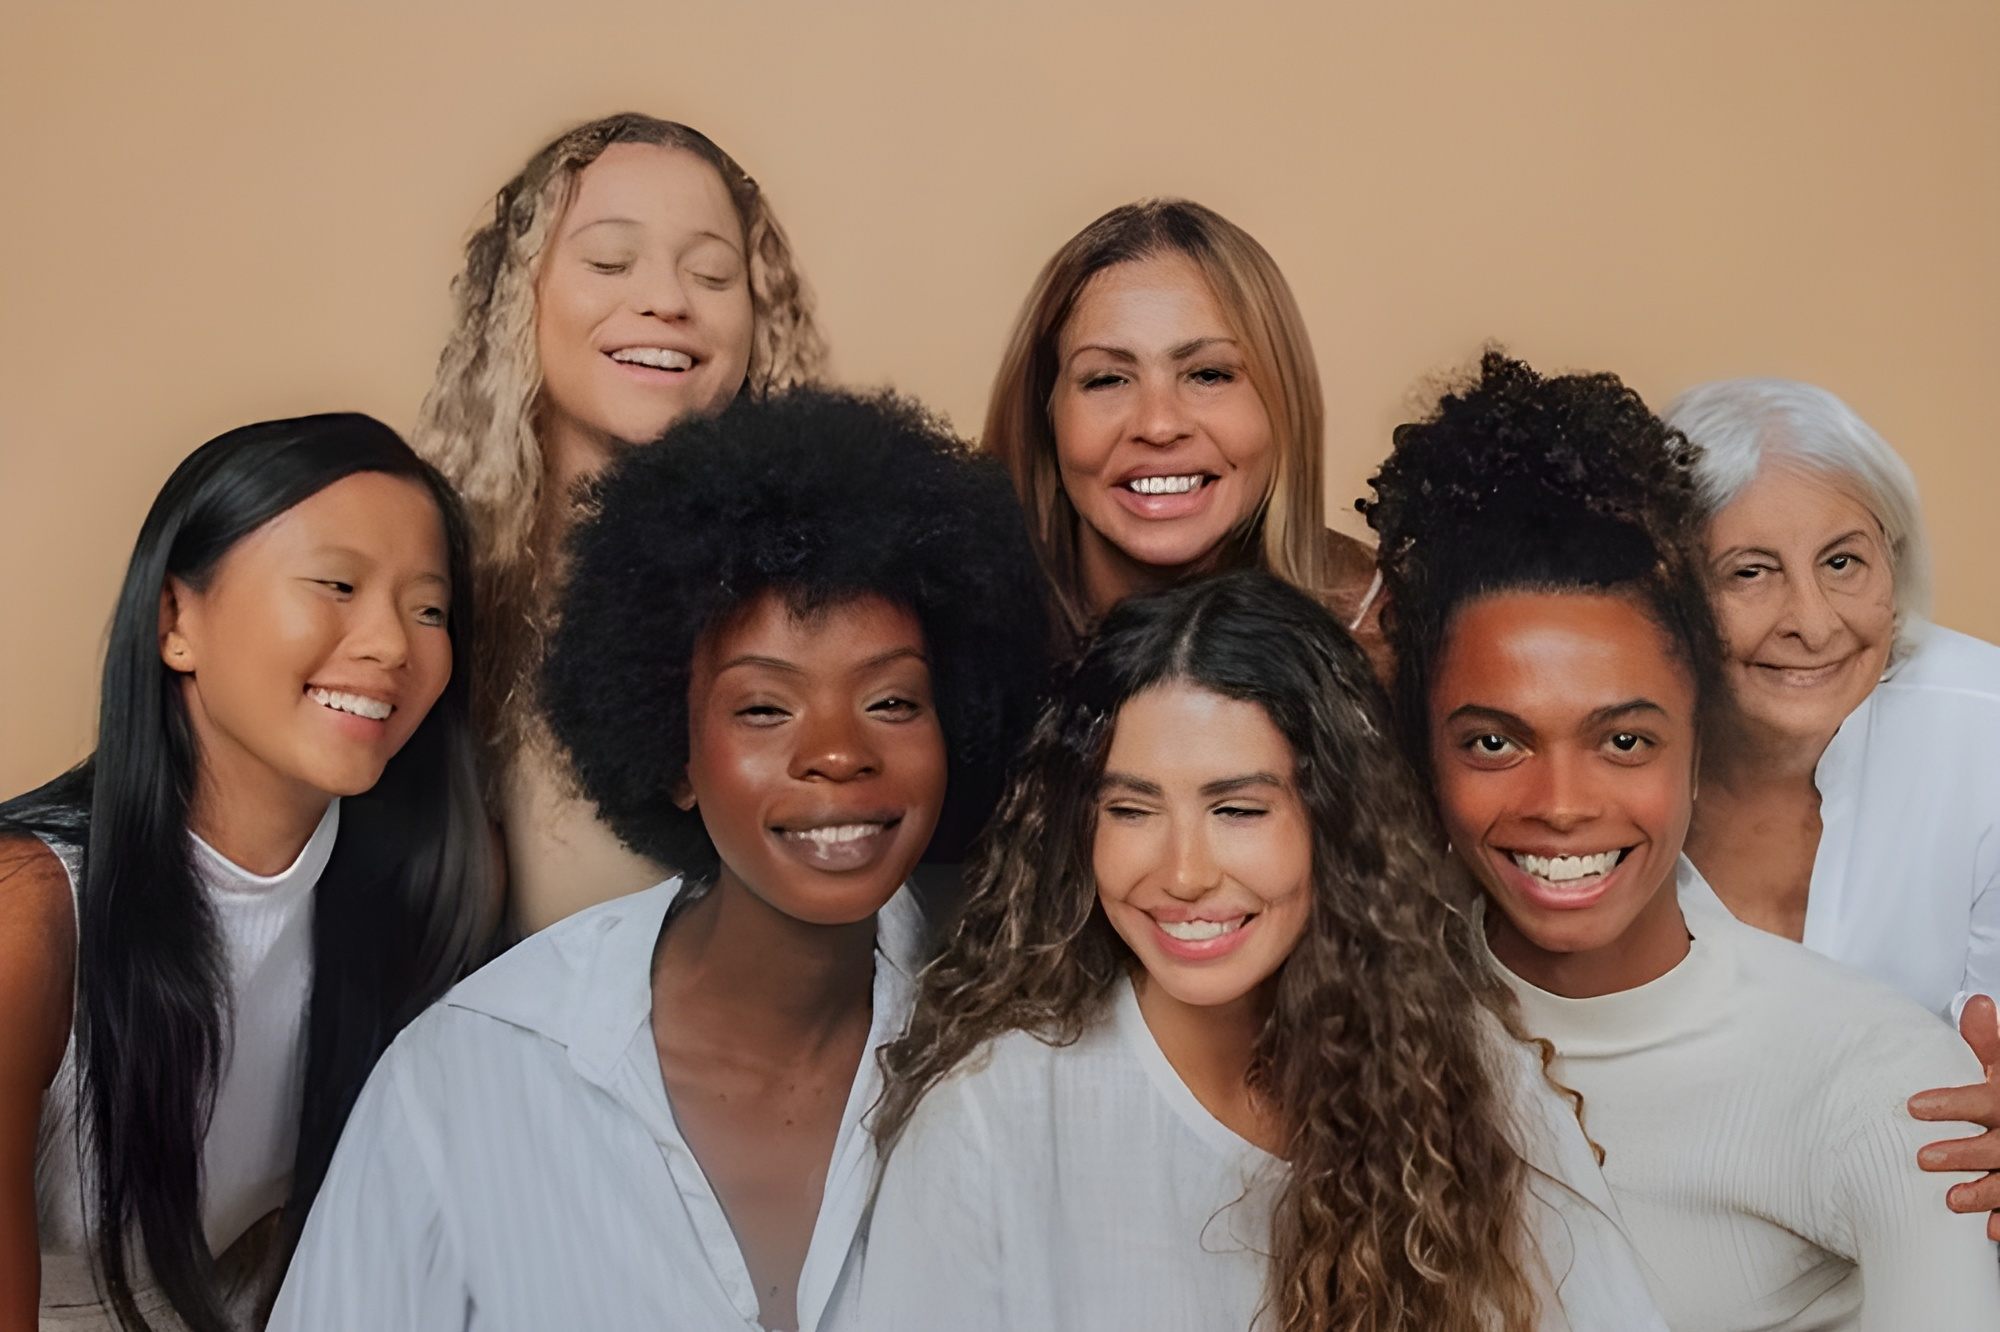
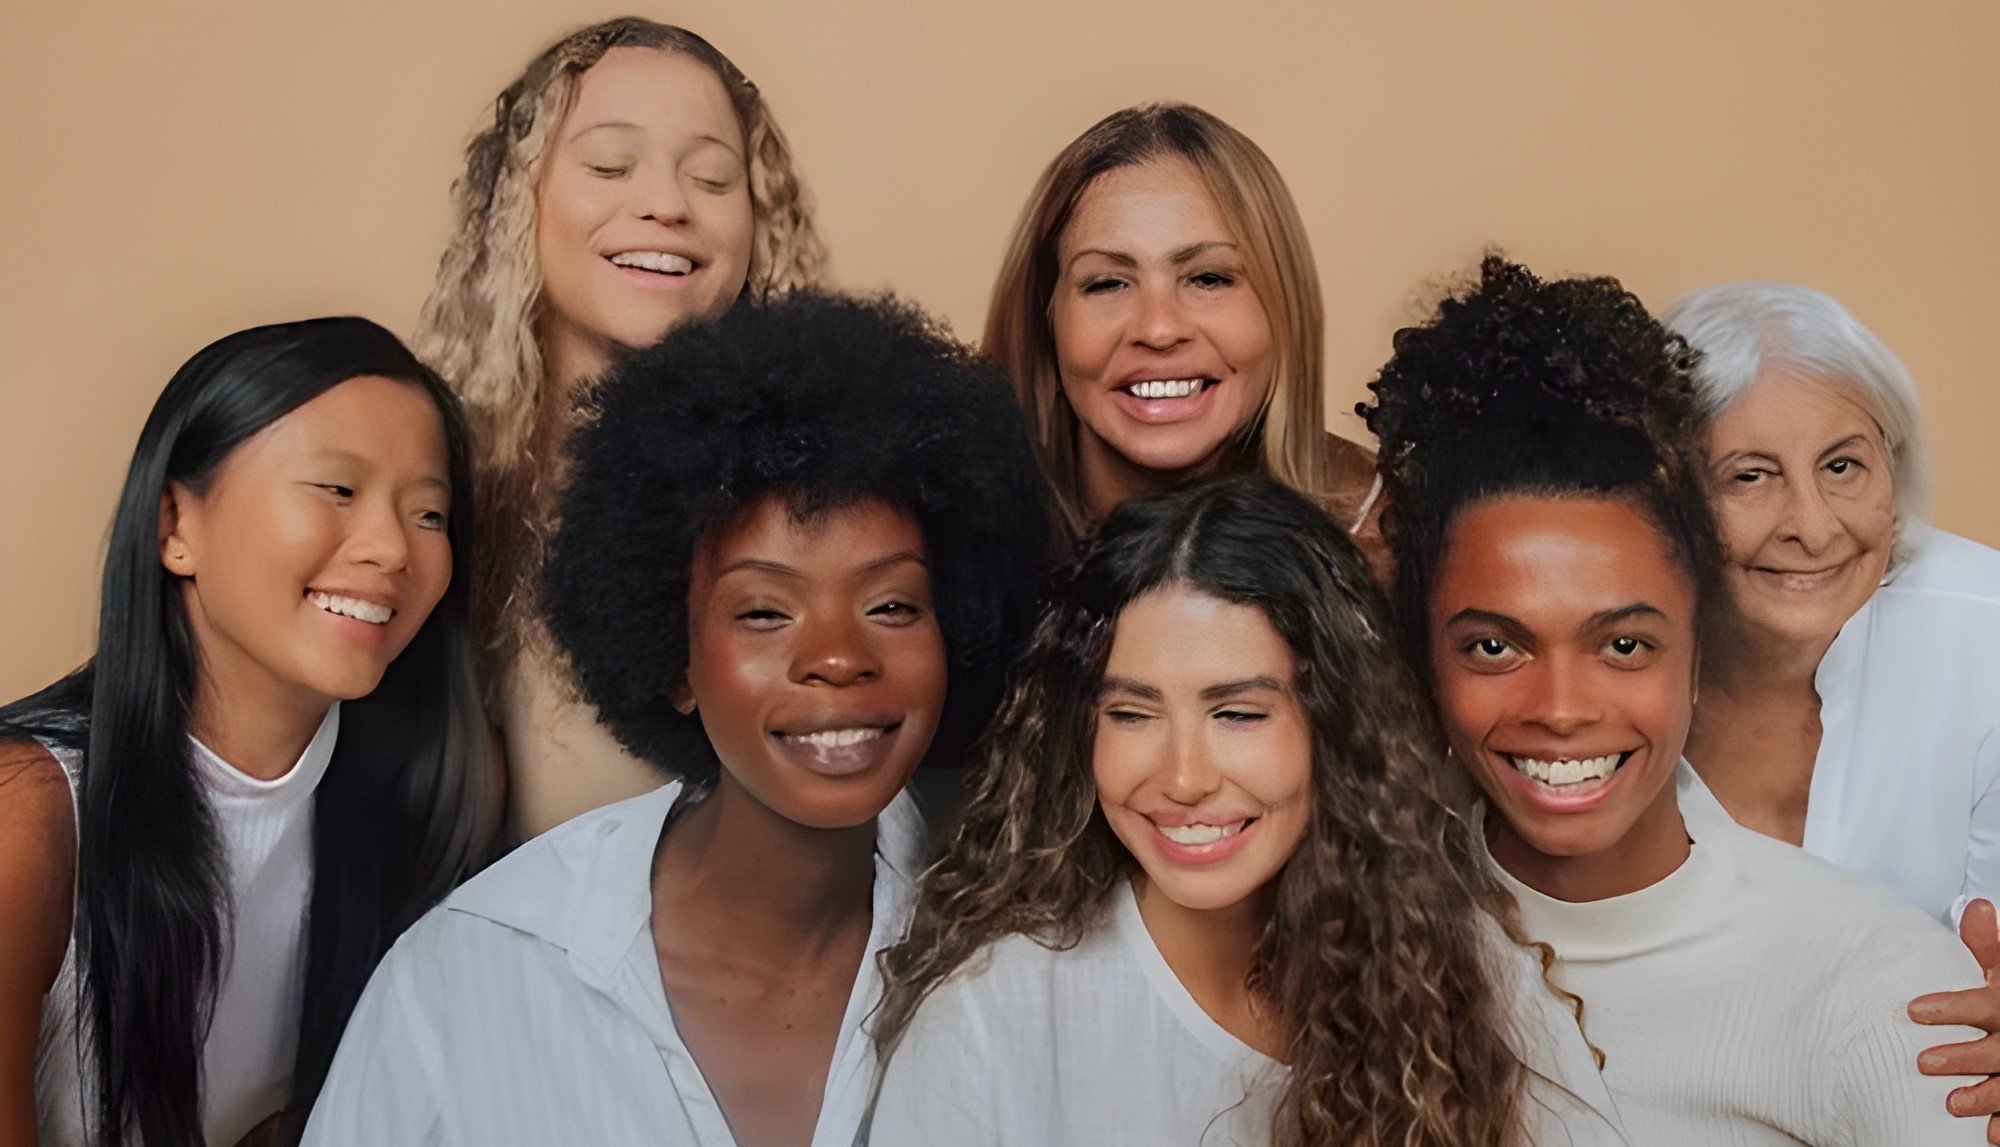
update dept pics

diff --git a/web-app/public/images/index.tsx b/web-app/public/images/index.tsx
@@ -52,7 +52,7 @@ export { default as GpPics1 } from './gp1.jpg';
 export { default as GpPics2 } from './gp2.webp';
 export { default as GpPics3 } from './gp3.jpg';
 export { default as GpPics4 } from './gp4.webp';
-export { default as GpPics5 } from './gp5.webp';
+export { default as GpPics5 } from './gp5.jpg';
 export { default as GpPics6 } from './gp6.jpg';
 export { default as GpPics7 } from './gp7.jpg';
 
